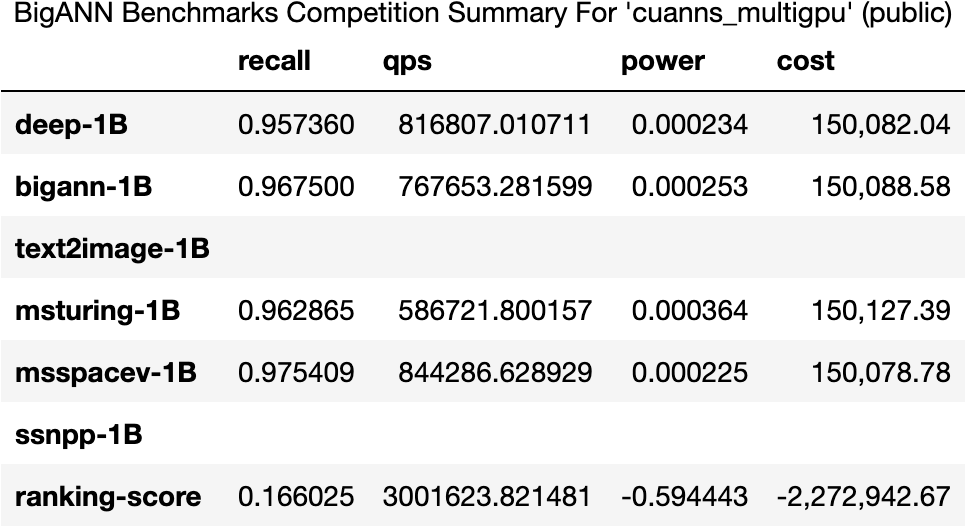
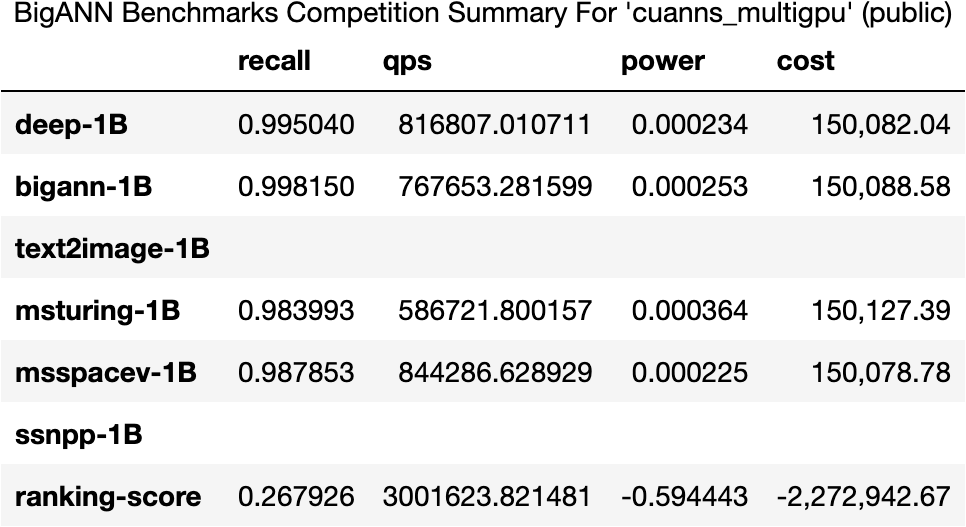
re-evaled public lb

diff --git a/t3/run_eval.py b/t3/run_eval.py
@@ -13,8 +13,8 @@ RE_EXPORT               = False
 PROCESS_CSV             = True
 LEADERBOARD_GEN         = True
 
-PUBLIC                  = False # Set to False for private leaderboard gen
-REJECT_ANOMALIES        = True
+PUBLIC                  = True # Set to False for private leaderboard gen
+REJECT_ANOMALIES        = False
 
 SKIP_DB                 = [ ] if PUBLIC else [ "msspacev-1B" ] # private GT for msspacev has error
 SENSORS                 = False
